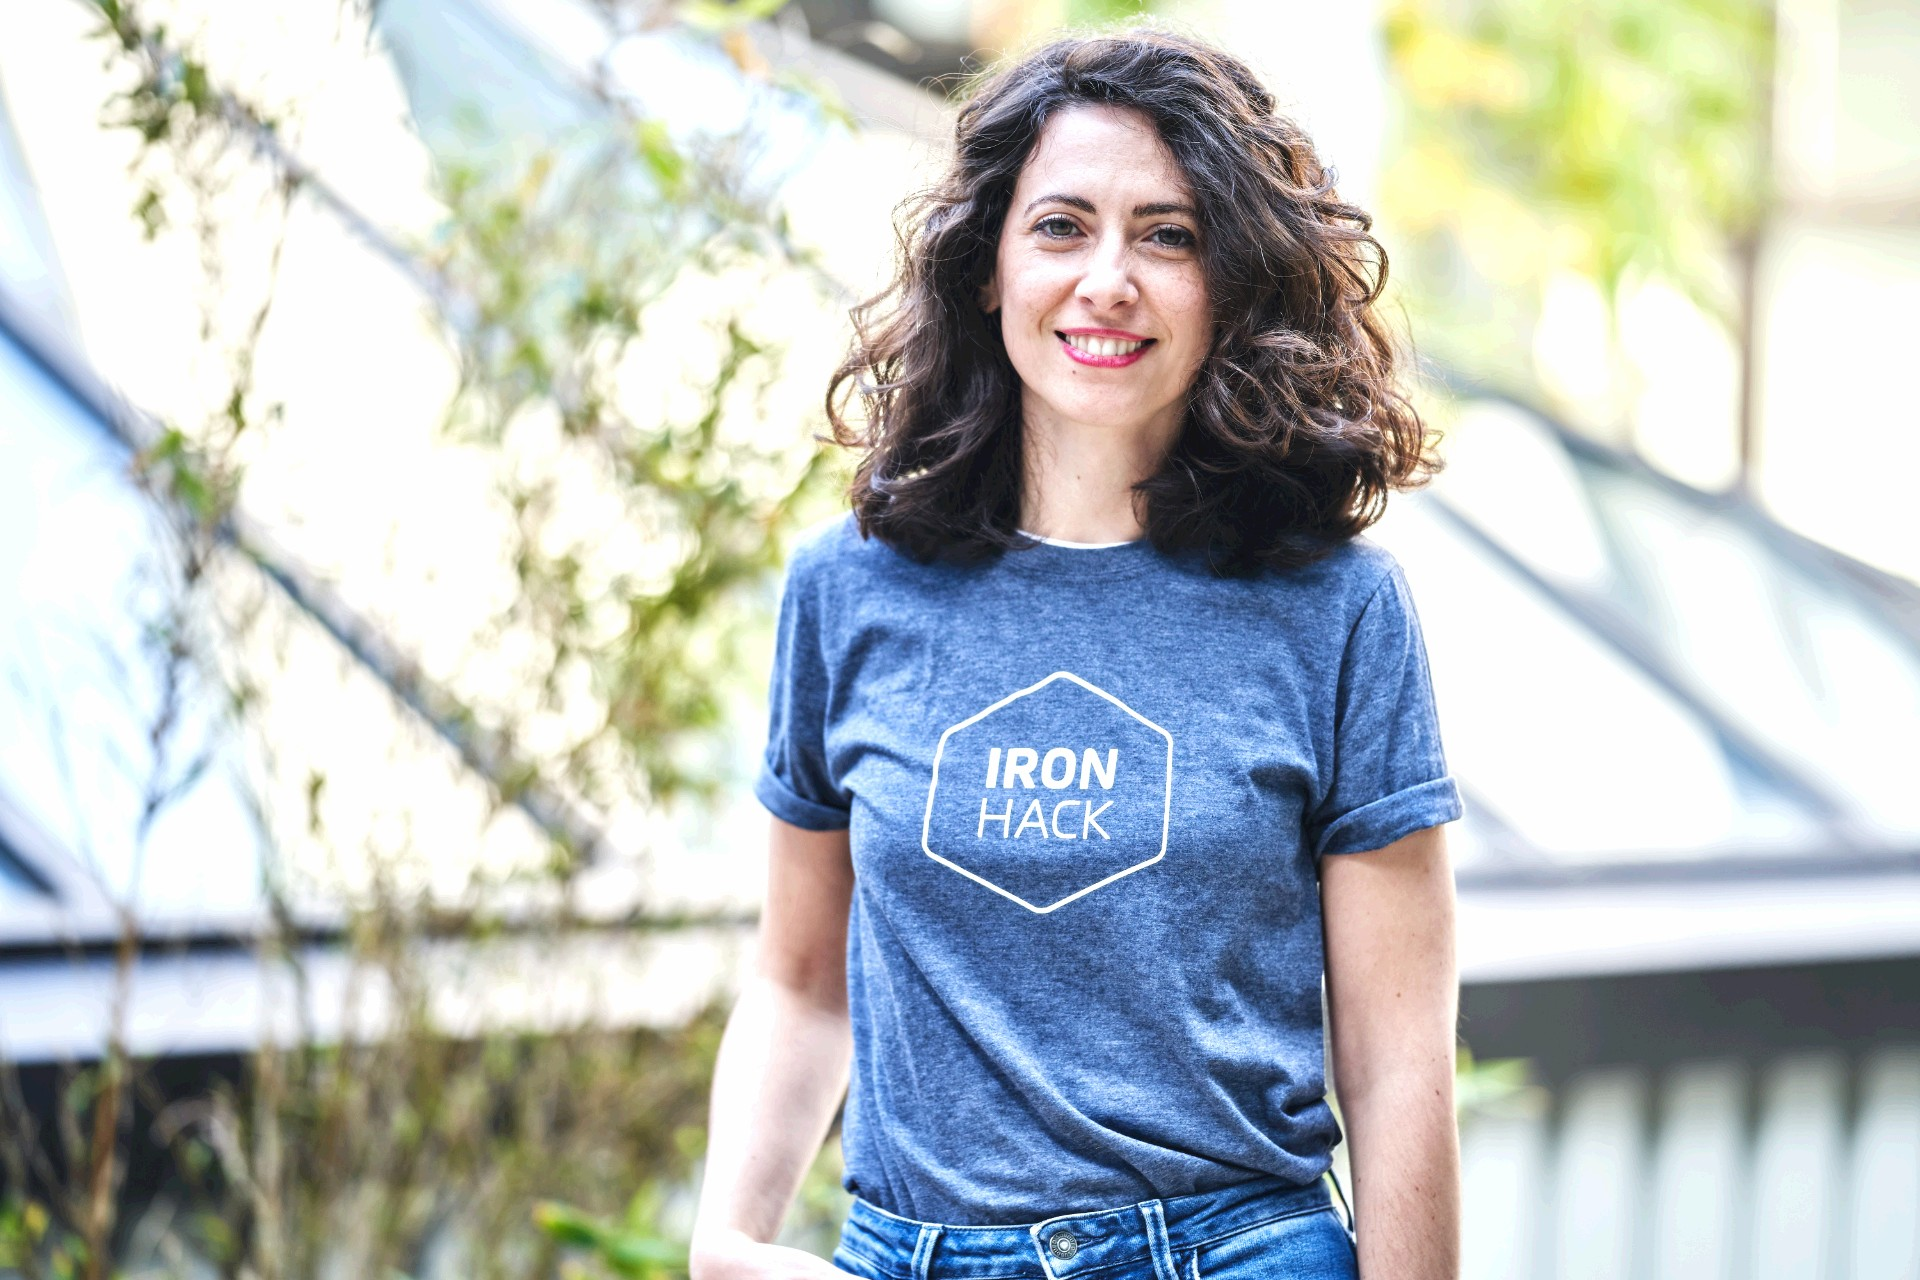
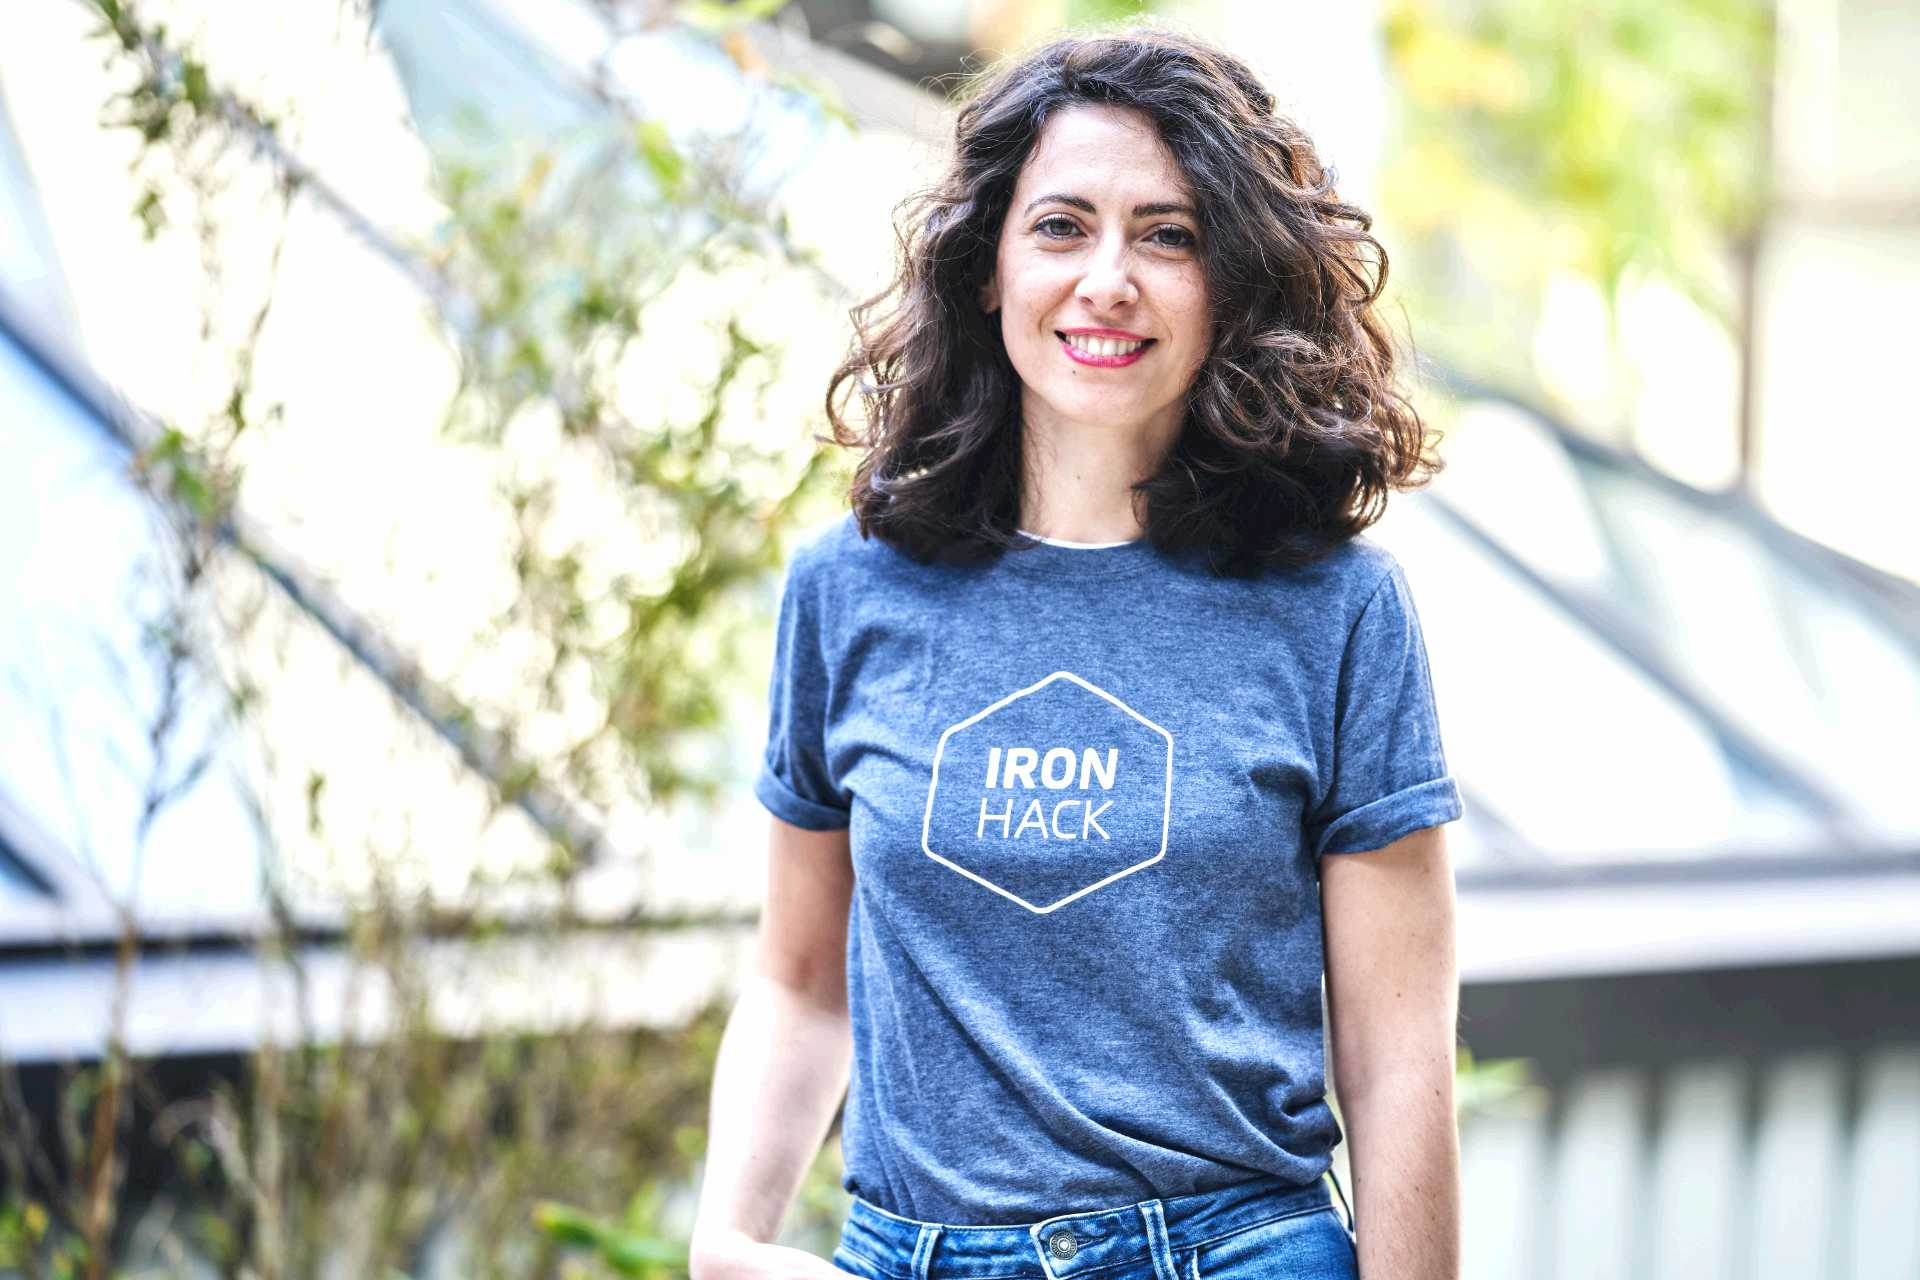
fix images

diff --git a/src/components/ProjectList.js b/src/components/ProjectList.js
@@ -1,8 +1,8 @@
 import React from "react";
 import ProjectCard from "./ProjectCard";
-import coffefi from "../images/coffefi.PNG";
-import flatHappens from "../images/flat-happens.PNG";
-import ghostTown from "../images/ghost-town.PNG";
+import coffefi from "../images/coffefi.jpg";
+import flatHappens from "../images/flat-happens.jpg";
+import ghostTown from "../images/ghost-town.jpg";
 
 const ProjectList = (props) => {
   const projects = [
